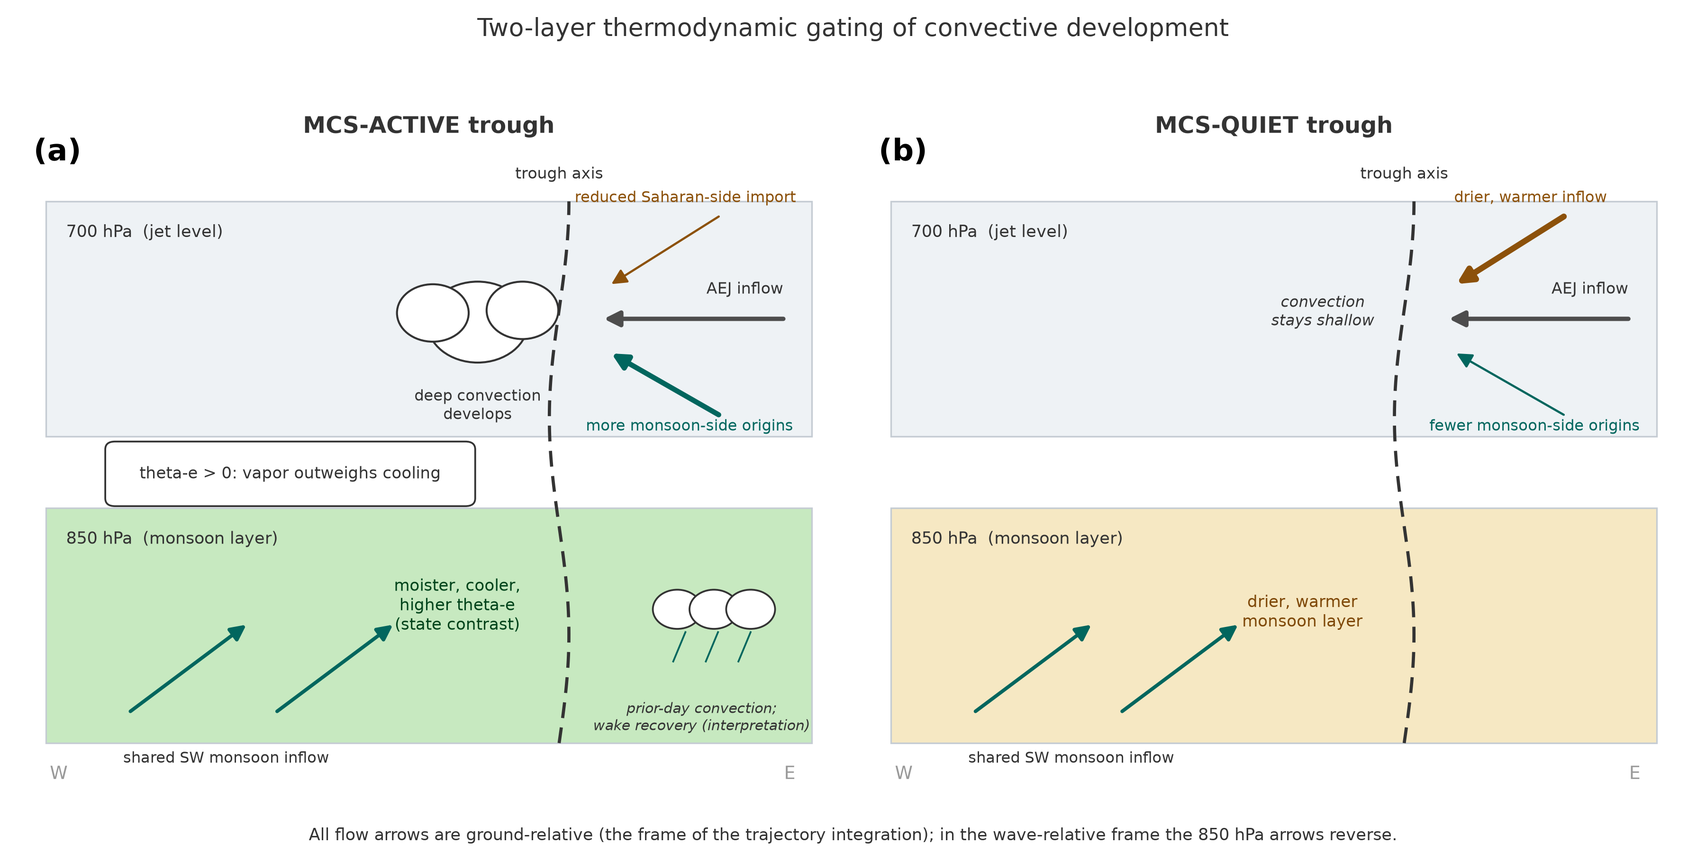
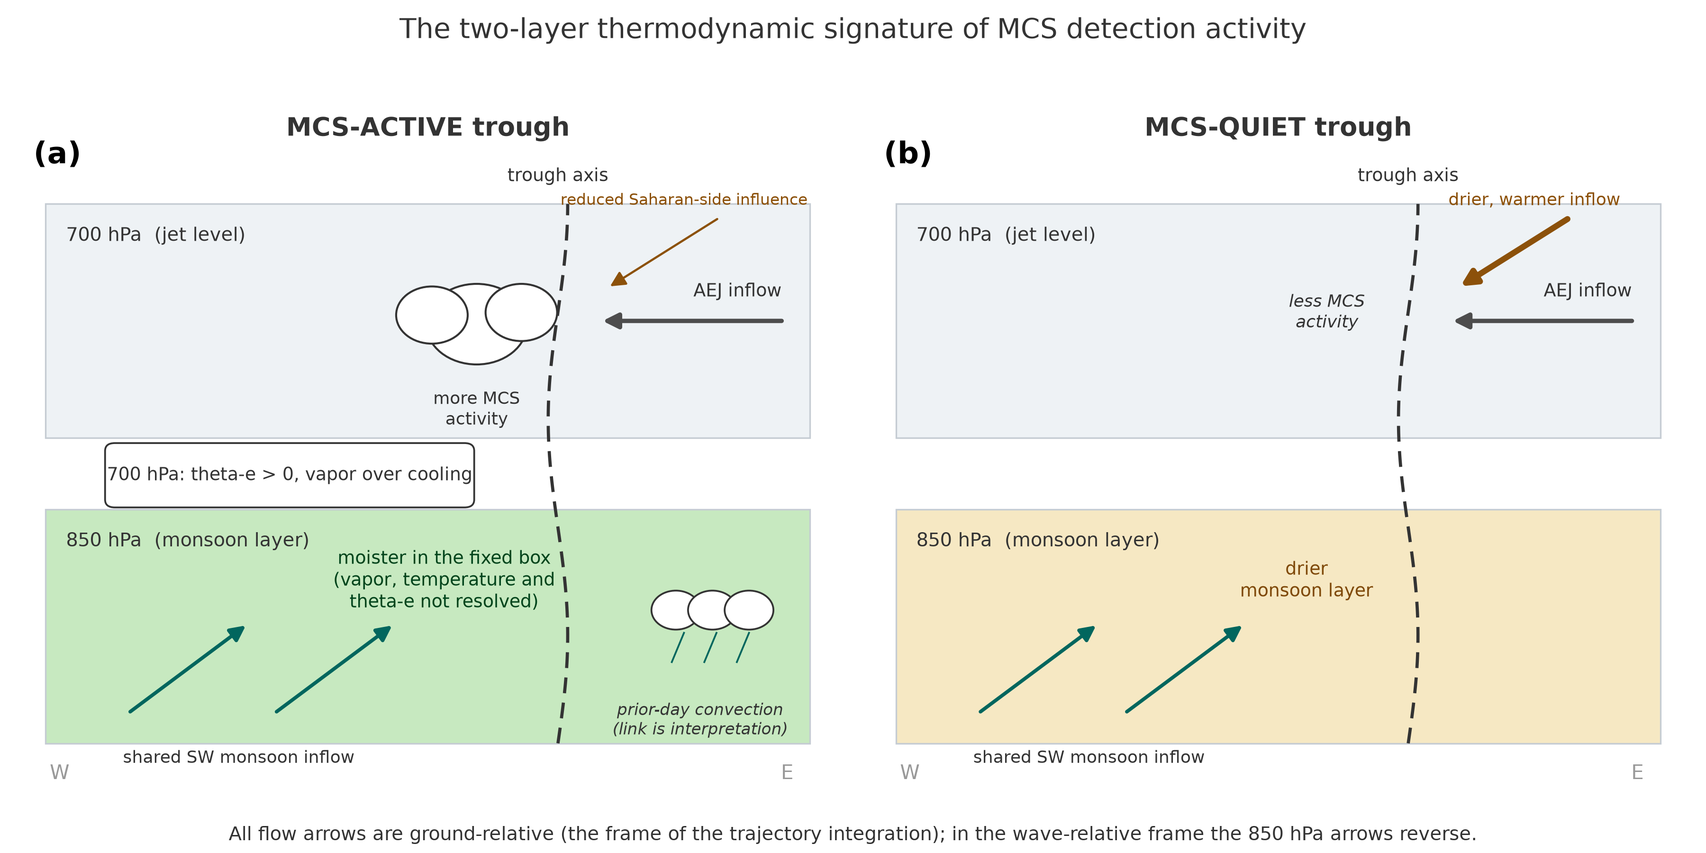
Describe the revised paper in the README, the methods document and the plain summary: the counting rules, the revised numbers, the limits of the record, and a schematic caption that states an association and no cause

diff --git a/docs/PLAIN_SUMMARY.md b/docs/PLAIN_SUMMARY.md
@@ -1,127 +1,132 @@
-# African easterly waves and the storms they carry: a plain-language summary
+# A plain-language summary of the African easterly wave study
 
 This note explains, without heavy jargon, what the analysis in the paper shows and where it
-stops short. The technical detail lives in the manuscript. This is the readable overview.
+stops. The technical detail is in the manuscript, and this is the readable overview. It
+describes the paper as revised after peer review.
 
 ## The question
 
 Every few days in summer, a ripple in the winds moves westward across West Africa. These
-ripples are African easterly waves (AEWs). Riding along with them are large clusters of
-thunderstorms, called mesoscale convective systems (MCS), which produce most of the Sahel's
-rain and sometimes seed Atlantic hurricanes. Two questions sit underneath the paper. Where
-do the storms sit relative to the wave, and why do some waves light up with storms while
-others, seemingly similar, stay quiet.
+ripples are African easterly waves (AEWs). Large clusters of thunderstorms, called mesoscale
+convective systems (MCS), travel with them, produce most of the rain of the Sahel and
+sometimes precede Atlantic hurricanes. The paper asks two things. Where do the storms sit
+relative to the wave, and how does the air ahead of waves with many storms differ from the
+air ahead of quiet ones? It describes that difference and does not test what makes one wave
+active and another quiet.
 
 ## Following the moving wave
 
 The original study answered a fixed-location version of the first question. It sat at one
 point (10 N, 0 E), waited for the wave to peak there, and averaged the storms around those
-dates. That works, but it ties the answer to one spot and to strong events at that spot.
+dates. That ties the answer to one spot and to strong events at that spot.
 
-The analysis here follows the moving wave instead. Using an independent catalogue of wave
-troughs (the low-pressure axis of each wave), it measures where the storms are relative to
-the trough wherever the trough happens to be, then averages over thousands of trough
-sightings across the 1983 to 2007 seasons. This trough-following view is closer to the
-physics, because the wave is a moving thing, not a fixed location.
+The analysis here follows the moving wave. Using a catalog of wave troughs (the low-pressure
+axis of each wave), it measures where the storms are relative to the trough wherever the
+trough is, over 6,364 trough observations between 20 W and 20 E in the summers of 1983 to
+2007. Storms concentrate about 2 degrees west of the moving trough, the direction in which
+the wave travels.
 
-Storms concentrate in and just west of the moving trough, the direction the wave is heading.
-To check that this is real and not just the fact that the Sahel is stormy anyway, the storm
-excess near the trough is compared against a scrambled control in which the trough longitudes
-are randomized. The peak sits right at the trough at about 1.27 times the scrambled
-control, and a randomization test puts the odds of that arising by chance at about one in a
-thousand. The clustering is tied to the trough, not to geography. One refinement sharpens
-the picture, because stronger waves organize storms more sharply, with the strongest third of waves
-producing a higher storm peak than the weakest third. A second thing that was once claimed
-here did not hold up. Storms that are already deep when first spotted turn out to appear in
-the same places as storms generally, so this record does not separate where storms are born
-from where they mature.
+To check that this is tied to the trough and not to the geography of a stormy region, the
+count near the trough is compared with a scrambled control in which whole waves keep their
+shape and trade places within the same year and month. The peak is 1.24 times the scrambled
+background, an excess of 131 storm systems, and it arises by chance in about one scrambled
+draw in a thousand. Stronger waves concentrate storms more. The strongest third of the waves
+shows a peak excess of 71 systems against 35 for the weakest third.
 
-## Why some waves light up and others do not
+The same offset appears in time. At a fixed place, storm activity peaks about 11 hours
+before the trough arrives, and that lead shortens toward the coast, from about 12.5 hours in
+the east of the corridor to about 8.7 hours in the west. The data are sampled every 6 hours,
+so this is a shift between a few possible values and not a finely measured delay.
 
-The harder question is the second one. Take troughs that go on to grow a lot of storms and
-troughs that stay quiet, and ask what was different about them beforehand. The paper measures
-the moisture of the air that feeds each trough, and it does so in two ways that turn out to
-matter a great deal.
+## Sorting the waves, and the record the storms come from
 
-The simple way is to sit in a fixed box near the trough and read the humidity. Done that way,
-the storm-growing troughs sit in air that is only slightly moister, about +1.1 percent
-relative humidity. The signal is there but faint.
+Each trough observation is sorted by how many storm systems appear near it in the 24 hours
+after it passes. Within each band of longitude and each calendar month, the top third are
+called MCS-active and the bottom third MCS-quiet. That gives 6,557 sorted observations on
+910 waves over 25 summers.
 
-The flow-following way is different. Instead of a fixed box, the analysis traces the actual
-ribbon of air flowing into each trough, back three days upstream, and reads the humidity of
-that inflow. Along the real inflow, the storm-growing troughs are fed by air about +3.0
-percent moister (a range of +2.0 to +4.0 covers the uncertainty), and the contrast grows the
-farther back the air is traced. A fixed box sees a smaller contrast, roughly a third of the
-flow-following value when compared against the box at the trough and about half when
-compared at the same three-day lead. Part of that gap is the sampling frame and part is
-that the two groups' air arrives by different routes, so it is not purely a matter of a
-fixed box blurring a moving ribbon. The moisture difference is real, and it shows up larger
-when the air is followed than when it is watched from a fixed point. In blunt terms, the storm-growing troughs are the ones drinking from
-a moister stream, and you only see how much moister if you follow the stream.
+The storm counts come from a satellite cloud record assembled from several satellites. The
+revised paper counts storms from one satellite position alone, Meteosat, because the views
+of two positions overlap over Africa and the overlap changes through the record. It also
+keeps a trough only when every 3-hourly image of its counting windows passes a check that
+the satellite was observing. That check is inferred from the counts themselves and not from
+the satellite's own logs, so the results describe the troughs that were kept and not every
+trough.
 
-The difference also shows up in the tails, which is what convection cares about. Air feeding
-the storm-growing troughs crosses a high-humidity threshold 35 percent of the time, against
-25 percent for the quiet troughs. A modest shift in the average becomes a larger shift in how
-often the air is moist enough to matter.
+## What differs in the air ahead
 
-## Two layers, two different reasons
+The paper reads the humidity of the air ahead of each trough in two ways. The first sits in
+a fixed box at the trough a day before it passes. There the air ahead of MCS-active troughs
+is moister by 0.8 percentage points of relative humidity (a range of 0.2 to 1.5 covers the
+uncertainty).
 
-Tracing where the moist air comes from splits the story into two levels of the atmosphere.
+The second way traces the horizontal flow into each trough back three days and reads the
+humidity along it. There the difference is 2.3 percentage points (1.2 to 3.4), about twice
+the value in fixed boxes read at the same three-day lead. The paper does not say why the two
+differ. The sampling position, the route of the air and any moist anomaly broader than the
+wave could each contribute, and the design cannot separate them. An earlier version argued
+that a fixed box blurs a moving signal, and the revised paper no longer makes that claim.
 
-At the mid-level (around 700 hPa, roughly 3 km up), the storm-growing troughs pull in less
-dry air from the north. The Sahara sits to the north, and its air is warm and dry, a known
-suppressor of convection. The inflow to storm-growing troughs is shifted away from that
-northern dry source. A thermodynamic check confirms the character of the difference. The
-moister inflow is also slightly cooler, and the two effects offset in a combined measure of
-warmth-plus-moisture, which is the fingerprint of reduced dry-warm Saharan air rather than a
-wholesale change in air mass.
+The difference is also visible in how often the inflow is very moist. Air ahead of
+MCS-active troughs is above a high-humidity mark in 33.1 percent of cases against 26.9
+percent for MCS-quiet troughs, and the same holds at five other marks. This is a difference
+between two humidity distributions. It is not a measurement of how much more rain a given
+rise in humidity would bring over the Sahel.
 
-At the low level (around 850 hPa, roughly 1.5 km up), there is no difference in where the air
-comes from. The air feeding storm-growing and quiet troughs arrives from the same direction.
-What differs is its state. The low-level air feeding storm-growing troughs is simply moister
-and cooler, consistent with the lingering cool, humid wake of earlier convection rather than a
-change in its route.
+## Where the difference lives
 
-## An honest limit on the causal reading
+A new calculation splits the 2.3 points by scale. About 0.3 lies between years, 0.8 between
+regions and months within a year, 1.2 between different waves in the same region and month,
+and 0.03 between passages of one and the same wave. The last part is not distinguishable
+from zero (a range of -0.22 to +0.28).
 
-There is an objection any reviewer will raise, and the paper meets it head-on rather than
-around it. Moisture and storms feed each other. Earlier storms leave moist air behind, so
-finding moist inflow ahead of later storms could be the earlier storms talking, not an
-independent cause.
+So the moister inflow belongs to some waves, and to some months and years, more than to
+particular passages of a wave. The paper does not show that nothing happens within a wave,
+only that this record does not resolve it.
 
-To test this, the moisture measurement is put into a statistical model alongside the obvious
-competitors, including how much convection the region had already seen, the wave's own
-strength, the wind shear, and the total moisture of the column. On its own the inflow moisture
-is a significant predictor of later storm growth. It survives controls for wave strength and
-shear. But once prior convection is included, most of the moisture signal is absorbed, and it
-no longer holds up as an independent predictor when the model is tested on data it was not
-built on. Prior convection is by far the strongest predictor.
+## Two layers
 
-So the honest reading is careful. The moisture contrast itself is measured and repeatable, and
-it is a genuine thermodynamic signature of the troughs that grow storms. What the data cannot
-settle is whether that moisture is an independent gate on convection or mostly the fingerprint
-of a convective regime that was already active, refreshing its own moist environment. Both
-readings fit the data. The paper reports the contrast plainly and constrains the causal claim
-to a signature, not a proven trigger.
+At the level of the jet (700 hPa, about 3 km up) the inflow ahead of MCS-active troughs
+carries more water vapor and is slightly cooler. Its traced paths come from less far north,
+by about 0.4 degrees of latitude. The Sahara lies to the north, so this is consistent with
+less influence of Saharan air, but the traced paths follow the horizontal wind at one level
+and are not the full history of the air, which also rises and sinks.
 
-## Independence and repeatability
+Lower down (850 hPa, about 1.5 km up) the air ahead of MCS-active troughs is moister in the
+fixed box and along the inflow for two days back, and its route does not differ between the
+two groups. MCS-active troughs also follow more storm activity in the same region the day
+before, 16.4 detections against 14.8.
 
-A separate goal was to remove any dependence on old or private data. The wind side runs on
-free public reanalysis (ERA5) through a filter that reproduces the original wave series
-closely (correlation 0.92). The storm side can run on a storm catalogue built in-house from
-free satellite infrared imagery (GridSat-B1), which matches the original storm pattern about as
-well as, and slightly better than, a published competitor (correlation 0.90). The original
-headline numbers reproduce exactly, including 272 composite dates at the published threshold.
-Everything is a tested Python package, every reported number comes from a single driver script,
-and each step was independently cross-checked against the original code.
+## What the statistical model can and cannot say
 
-## What it adds up to
+Storms leave moist air behind, so moist inflow ahead of later storms could reflect the
+earlier storms. To examine this, the paper puts the inflow humidity into a count model with
+the strength of the wave, the wind shear and the storm activity of the day before. Alone,
+a standard step in inflow humidity goes with 4.6 percent more storm systems. With all three
+of those in the model it goes with 2.5 percent more (a range of 0.3 to 4.8), and with the
+total moisture of the column added, 2.3 percent (0.04 to 4.6).
 
-The trough-following map of storms is the solid, repeatable core, together with the finding
-that stronger waves organize storms more sharply. On top of it, the paper measures a clear thermodynamic difference between the troughs
-that grow storms and those that stay quiet. The difference is modest in the average, larger in
-how often the inflow is moist enough to matter, and visible only when the air is followed along
-its path rather than read from a fixed box. It has a two-layer structure, less dry Saharan air
-aloft over a moister, cooler layer below. The one thing the paper is careful not to overclaim
-is cause. Whether that moisture drives the storms or mainly marks a convective regime already
-under way is a question the current data leave open.
+A small association therefore remains when the others are accounted for. It does not show
+that humidity causes the storms. The paper describes the environment of active waves and
+cannot isolate a switch acting on single troughs.
+
+## Limits
+
+- The satellite record may not be uniform through time. The difference is 2.6 points in 1983
+  to 1993 and 2.1 in 1994 to 2007, but split at 1998 it is 3.3 before and an unresolved 0.5
+  after. Nothing in the paper separates a change in storms from a change in satellite
+  sampling.
+- Humidity comes from one reanalysis (ERA5), and its uncertainty is not measured here. The
+  wave troughs come from an older reanalysis, and the catalog of troughs ends at 40 E.
+- The design was set on five summers and repeated on the other twenty. Later choices were
+  applied to all of them, so the twenty are a repeat and not an untouched test.
+
+## Open data and repeatability
+
+The wind side runs on a public reanalysis (ERA5) through a filter that reproduces the
+original wave series at a correlation of 0.92 over 2000 to 2004. A storm tracker built on
+public satellite infrared imagery (GridSat-B1) matches the geography of the original storm
+record at a correlation of 0.90 over twelve test months, which tests where storms are
+counted and not the sorting of troughs. The original study's basepoint composite reproduces
+with the same 272 composite dates. Every number in the paper comes from one driver script
+and is checked against one table.

diff --git a/docs/METHODS.md b/docs/METHODS.md
@@ -23,6 +23,14 @@ the equivalent-circle radius R = sqrt(N A / pi), where N is the pixel count and 
 pixel area, so a family qualifies for the CT database at R >= 90 km (about 30 pixels at
 the ISCCP DX sampling of roughly 30 km).
 
+The CS file pools the detections of every geostationary satellite position of its source.
+Where the views of two positions overlap, as they do over Africa for part of the record,
+the pooled count holds the detections of both. The wave-conditioned analysis therefore
+counts convection from the Meteosat position alone, on trough observations whose counting
+windows pass an availability criterion inferred from the detection counts.
+`scripts/build_observed_slots.py` writes the calendar of the 3-hourly slots that pass,
+`scripts/met_observed_slots.csv`.
+
 Two independent products support cross-checking. The African Easterly Wave Climatology
 (AEWC, Belanger et al., NCEI dataset C00784) provides objectively tracked wave-trough
 trajectories from curvature-vorticity anomalies, 6-hourly over 1948 to 2010, from four
@@ -66,7 +74,7 @@ identifies the space-time (rather than time-only) filtering as the operative ste
 Two composite operators act on the composite dates. The longitude-lag (Hovmoller)
 operator averages a gridded field over a latitude band and, for each lag from -6 to +6
 days, averages the band-mean field over the base dates whose lagged date falls inside the
-record. The latitude-longitude operator is the map analogue at a chosen lag. Both draw the
+record. The latitude-longitude operator is the map analog at a chosen lag. Both draw the
 statistical significance from a Monte Carlo test in which the null population is the set of
 dates with the same calendar day and hour in other years (Frank and Roundy null), so the
 resampling preserves the seasonal cycle while breaking the wave phase relationship. A
@@ -118,21 +126,29 @@ midway between two consecutive 6-hourly trough observations is counted once.
 The trough-relative signal is separated from the background cloud climatology by an
 anchor-permutation null in which whole waves keep their track shapes while anchor
 longitudes are permuted within year-month strata, so any enhancement fixed in geography
-rather than tied to the trough averages out. The peak sits at the trough axis at 1.27
-times the null background, with a randomization p of 0.001 on the selection-aware maximum
-over the -10 to +10 degree search interval.
+rather than tied to the trough averages out. The composite is confined to trough
+observations between 20 W and 20 E whose two bracketing time slots pass the availability
+criterion (6,364 observations, 44,757 systems binned) and to 12 degrees on either side of
+the trough. That is the widest region and window for which every bin of every permuted
+wave lies at longitudes the Meteosat catalog covers. The peak sits 2 degrees west of the
+trough axis at 1.24 times the null background, an excess of 131 systems, with a
+randomization p of 0.001 on the selection-aware maximum over the -10 to +10 degree search
+interval (1,000 draws).
 
-Stratifying the trough population by curvature vorticity sharpens the picture. Troughs in
-the upper amplitude tercile produce a higher convective excess at the trough (peak excess
-168 systems in the 5 to 15 N band) than troughs in the lower tercile (102), with the
-strong-minus-weak difference resolved by a paired selection-aware test.
+The concentration increases with wave amplitude. Troughs in the upper tercile of curvature
+vorticity show a peak excess of 71 systems in the 5 to 15 N band against 35 for the lower
+tercile. The strong-minus-weak difference peaks at 44 systems under a selection-aware test
+in which the two terciles are relabeled together under the shared permutation (p = 0.001).
 
-First cold-cloud detections, taken as the first observation of each CT family, are also
-enhanced near the trough. Families already colder than 200 K at first detection are
-distributed the same way. Normalized by their own binned totals, the two curves peak at
-the axis at 4.46 against 4.48 percent and hold 16.69 against 16.61 percent inside the -4
-to +2 degree core. Where a family is first detected does not separate the two sets, and
-no life-cycle transition from genesis to maturity is claimed from this figure.
+First cold-cloud detections, taken as the first observation of each CT family and counted
+once per family, scatter broadly about the trough axis (80,565 first detections, 1984 to
+2007). Families already colder than 200 K at first detection (25,423) fall in much the
+same places. Normalized by their own binned totals, the two curves peak at the axis at
+4.52 against 4.56 percent and hold 16.63 against 16.53 percent inside the -4 to +2 degree
+core. Their centroids differ by 1.87 degrees (1.61 to 2.19 when the 24 seasons are
+resampled), the deep-at-detection centroid lying farther east, which is a difference of
+shape and not a displacement of the whole curve. No life-cycle transition from genesis to
+maturity is claimed from this comparison.
 
 ## Reproducibility
 
@@ -140,7 +156,7 @@ The analysis is a single tested Python package (numpy, scipy, xarray, pandas, ma
 cartopy). Each numerical operator has unit tests on synthetic inputs with known answers,
 and the full suite covers the filter, the composite-date selection, both composite
 operators, the binning routines, the tracker, and the readers. Every non-trivial numerical
-component was checked line by line against the surviving original code by an independent line-by-line check. Input datasets and their access paths are recorded so that each
+component was checked line by line against the surviving original code. Input datasets and their access paths are recorded so that each
 figure can be regenerated from public sources, with the exception of the ISCCP CS/CT
 records, which are the original derived product.
 
@@ -152,6 +168,10 @@ not the absolute counts, and it underweights the Ethiopian Highlands. The AEWC t
 record ends in 2010 and stops at 40 E, which excludes the eastern genesis region that the
 CT record shows to be active. The CT family genesis time is taken from the family time
 coordinate rather than the day-of-month field, which is unreliable in the processed file.
+The cloud-system record is not uniform through time. Counting from one satellite position
+and screening by the availability criterion address two known sources of that and do not
+make the record uniform, so a result pooled over 1983 to 2007 describes the retained
+sample.
 
 ## References (to be completed)
 

diff --git a/README.md b/README.md
@@ -39,18 +39,20 @@ National Centers for Environmental Information (NCEI) of the National Oceanic an
 Administration (NOAA).
 MCS counts peak in and just west of the moving trough, a maximum that survives a permutation
 test in which whole waves keep their track shapes while their anchor longitudes are shuffled
-within year and month, and stronger troughs organize convection more sharply. A paper on
-the thermodynamic contrasts between convectively active and quiet waves (Semunegus, 2026b)
-is under consideration at the Journal of the Atmospheric Sciences.
+within year and month, and stronger troughs are accompanied by more convection there. A
+paper on the thermodynamic contrasts between convectively active and quiet waves (Semunegus,
+2026b) is in revision at the Journal of the Atmospheric Sciences.
 
-![Two-layer thermodynamic signatures of convective development in African easterly waves](docs/schematic.png)
+![The two-layer thermodynamic signature of MCS detection activity](docs/schematic.png)
 
-Summary schematic. An MCS-active trough (left) draws less dry Saharan air at the jet level
-(700 hPa) over a moister, cooler monsoon layer (850 hPa), and deep convection develops. An
-MCS-quiet trough (right) shares the same southwesterly monsoon inflow but takes drier,
-warmer air aloft, and convection stays shallow. Transport differences are drawn in the
-700 hPa arrows and state differences in the 850 hPa fill. All flow arrows are
-ground-relative.
+Summary schematic of the two-layer description in that paper. Ahead of an MCS-active trough
+(left) the diagnosed inflow at the jet level (700 hPa) is moister and its paths are less
+northerly, which is consistent with reduced Saharan-side influence in the horizontal flow,
+over a monsoon layer (850 hPa) that is moister in a fixed box. Ahead of an MCS-quiet trough
+(right) the same southwesterly monsoon inflow lies under drier, warmer inflow aloft. The
+schematic describes an association between the environment and convective activity and
+does not show that one causes the other. Transport differences are drawn in the 700 hPa
+arrows and state differences in the 850 hPa fill, and all flow arrows are ground-relative.
 
 ### From using the wave record to rebuilding it
 
